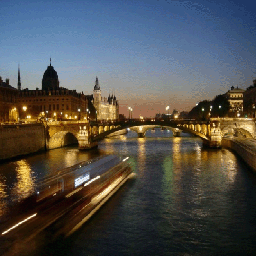
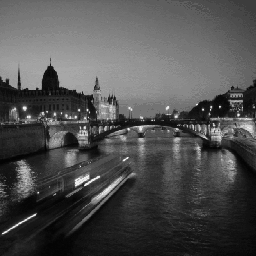
act4 upload

diff --git a/act4.py b/act4.py
@@ -1,14 +1,16 @@
-#CMSC162: Activity 3 - Image Enhancement Basics
+#CMSC162: Activity 4 - Image Enhancement Basics
 #Author: Greg Norman C. Millora (2019-60019)
-#Date: 10/10/2019
+#Date: 10/13/2022
 
-from PyQt5.QtWidgets import QMainWindow, QApplication, QAction,QLabel,QFileDialog,QTabWidget,QStackedWidget
+from PyQt5.QtWidgets import QMainWindow, QApplication, QAction,QLabel,QFileDialog,QTabWidget,QStackedWidget, QDockWidget,QSlider,QPushButton
 from PyQt5 import uic
 from PyQt5.QtGui import QPixmap, QImage
 from PIL.ImageQt import ImageQt
 from PIL import Image
+from cv2 import QT_PUSH_BUTTON
 import matplotlib.pyplot as pyplot
 import numpy as np
+import cv2
 import struct
 import sys
 
@@ -55,21 +57,74 @@ class UI(QMainWindow, PCX):
     self.getRedChannel = self.findChild(QAction,'getRed')
     self.getBlueChannel = self.findChild(QAction,'getBlue')
     self.getGreenChannel = self.findChild(QAction,'getGreen')
+    self.grayscale = self.findChild(QAction,'tfGrayscale')
+    self.negative = self.findChild(QAction, 'tfNegative')
     self.infoTab = self.findChild(QTabWidget,'infoTab')
+    
+    #Gamma Dock Widgets
+    self.gammaDock = self.findChild(QDockWidget,'gammaDock')
+    self.gammaThresh = self.findChild(QAction,'thGamma')
+    self.gammaSlider = self.findChild(QSlider,'gammaSlider')
+    self.gammaVal = self.findChild(QLabel,'gammaVal')
+    self.gammaDock.setHidden(True)
+    
+    #Black and White Dock Widgets
+    self.bnwDock = self.findChild(QDockWidget,'bnwDock')
+    self.bnwThresh = self.findChild(QAction,'bnwButton')
+    self.bnwSlider = self.findChild(QSlider,'bnwSlider')
+    self.bnwVal = self.findChild(QLabel,'bnwVal')
+    
+    #Utility Widgets
+    self.saveImgBNW = self.findChild(QPushButton,'saveImage')
+    self.saveImgGamma = self.findChild(QPushButton,'saveImage_2')
+    self.reset = self.findChild(QAction,'reset')
+    self.grayscaleTool = self.findChild(QAction,'grayscaleTool')
+    
+    #Initial states of the UI
+    self.bnwDock.setHidden(True)
+    self.bnwThresh.setEnabled(False)
     self.infoTab.setHidden(True)
 
-    #When self.button is clicked, trigger the function 'add_image()'
+    #Connect the buttons to their respective functions
     self.button.triggered.connect(self.add_image)
     self.getRedChannel.triggered.connect(self.split_red)
     self.getBlueChannel.triggered.connect(self.split_blue)
     self.getGreenChannel.triggered.connect(self.split_green)
-   
+    self.grayscale.triggered.connect(self.tf_grayscale)
+    self.negative.triggered.connect(self.tf_negative)
+    self.gammaThresh.triggered.connect(self.show_gamma)
+    self.gammaSlider.valueChanged.connect(self.tf_gamma)
+    self.bnwThresh.triggered.connect(self.show_bnw)
+    self.bnwSlider.valueChanged.connect(self.tf_bnw)
+    self.saveImgBNW.clicked.connect(self.save_image)
+    self.saveImgGamma.clicked.connect(self.save_image)
+    self.reset.triggered.connect(self.reset_image)
+    self.grayscaleTool.triggered.connect(self.tf_grayscale)
+    
+    #Declare the variables
     self.fileopen=''
+    self.image = None
+    self.orig_img = None
+  
+  
+  def reset_image(self):
+    self.image = self.orig_img
+    self.label.setPixmap(QPixmap.fromImage(ImageQt(self.image)))
+    self.gammaDock.setHidden(True)
+    self.bnwDock.setHidden(True)
+    self.bnwThresh.setEnabled(False)
     
   #Function to show the information tab on the UI
   def show_channel(self):
     self.infoTab.setHidden(False)
+  def show_gamma(self):
+    self.gammaDock.setHidden(False)
+  def show_bnw(self):
+    self.bnwDock.setHidden(False)
   
+  def save_image(self):
+    self.image.save('dump.png')
+
   #Function to convert an image to PNG and save it to the current directory as 'dump.png'
   def convert_to_png(self,path):
     img = Image.open(self.fileopen)
@@ -93,8 +148,6 @@ class UI(QMainWindow, PCX):
     pixmap = QPixmap.fromImage(temp_img)
     self.plotLabel.setPixmap(pixmap)
 
-    
-    
   #Functions to split the channels of the image and show it to the UI.
   #Also creates a histogram of the channel and shows it to the UI.
   #The histogram is created by using the PIL.Image.histogram() function.
@@ -131,6 +184,78 @@ class UI(QMainWindow, PCX):
     channel = Image.merge('RGB', (blue.point(lambda _:0), blue.point(lambda _:0), blue))
     self.create_histogram(histogram,'BLUE')
     self.show_image(channel)
+  
+  #Function to transform the image to grayscale using
+  #OpenCV. Gets the sum of the RGB pixel values and gets
+  #its average and assign it to that pixel. Then convert
+  #the image back to PIL Image format from the OpenCV
+  #array object.
+  
+  def tf_grayscale(self):
+    img = cv2.imread('dump.png')
+    (row,col) = img.shape[:2]
+    for i in range(row):
+      for j in range(col):
+        img[i, j] = sum(img[i, j]) / 3
+    img = Image.fromarray(img)
+    img.save('dump.png')
+    self.show_image(img)
+    self.gammaThresh.setEnabled(True)
+    self.bnwThresh.setEnabled(True)
+  
+  #Function to transform the image to negative using
+  #OpenCV. Gets the sum of the RGB pixel values and subtracts
+  #it from 255 and assign it to that pixel. Then convert
+  #the image back to PIL Image format from the OpenCV
+  #array object.
+  def tf_negative(self):
+    img = cv2.imread('dump.png')
+    (row,col) = img.shape[:2]
+    for i in range(row):
+      for j in range(col):
+        # Find the average of the BGR pixel values
+        img[i, j] = 255 - img[i, j]
+    img = Image.fromarray(img)
+    img.save('dump.png')
+    self.show_image(img)
+    self.gammaThresh.setEnabled(False)
+    self.bnwThresh.setEnabled(False)
+  
+  #Function to transform the image to gamma using
+  #OpenCV. Gets the sum of the RGB pixel values and
+  #raise it to the power of the gamma value and assign
+  #it to that pixel. Then convert the image back to PIL
+  #Image format from the OpenCV array object.
+  def tf_gamma(self, gamma=1.0):
+    gamma = gamma/10
+    self.gammaVal.setText("Gamma = "+str(gamma))
+    image = cv2.imread('dump.png')
+    table = np.array([((pixel / 255.0) ** gamma) * 255
+      for pixel in np.arange(0, 256)]).astype("uint8")
+    img = Image.fromarray(cv2.LUT(image, table))
+    self.image = img
+    self.show_image(img)
+  
+  #Function to transform the image to black and white using
+  #OpenCV. Gets the sum of the RGB pixel values and
+  #if the sum is greater than the threshold value, it
+  #assigns 255 to that pixel. Else, it assigns 0 to that
+  #pixel. Then convert the image back to PIL Image format
+  #from the OpenCV array object.
+  def tf_bnw(self, k=127.0):
+    self.tf_grayscale()
+    self.bnwVal.setText("Value = "+str(k))
+    img = cv2.imread('dump.png')
+    (row,col) = img.shape[:2]
+    for i in range(row):
+      for j in range(col):
+        if sum(img[i,j])/3 < k:
+          img[i,j] = 0
+        else:
+          img[i,j] = 255
+    img = Image.fromarray(img)
+    self.image = img
+    self.show_image(img)
     
   #Function to show the image to the UI
   #Converts the image to a .PNG file and sets it to the label
@@ -160,11 +285,11 @@ class UI(QMainWindow, PCX):
       self.information.setText("No Information")
       
     #Open the image file and show it to the UI.
-    self.image = Image.open(self.fileopen)
-    self.show_image(self.image)
+    img = Image.open(self.fileopen)
+    self.orig_img = img
+    self.show_image(img)
     print(self.fileopen)
     
- 
 
 app = QApplication(sys.argv)
 UIWindow = UI()
